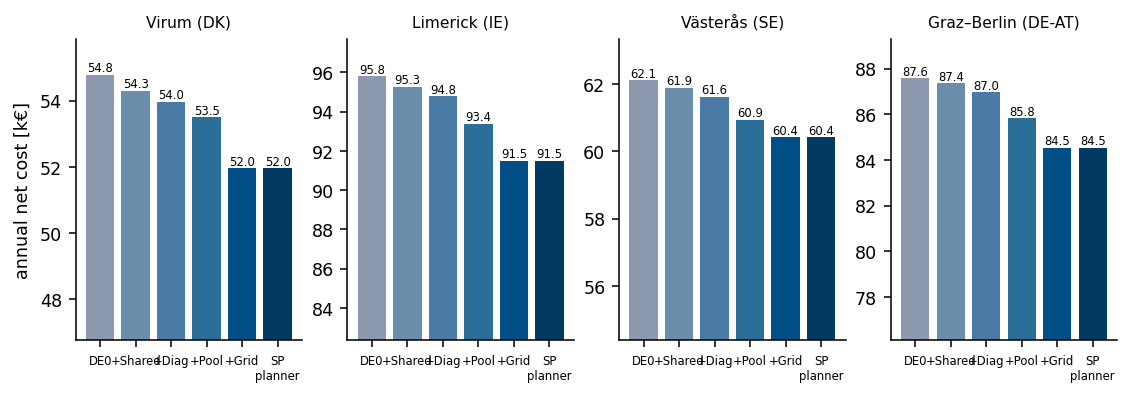
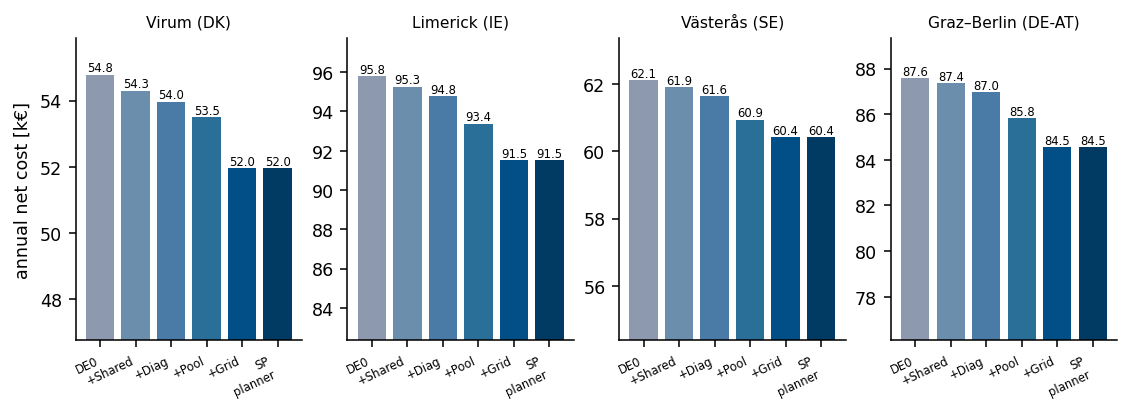
Compute P2P seller premium and buyer saving against effective M3 grid alternatives (net use-of-system tariff and congestion); label regularization-audit price as all-hour solver dual; finish shared-forecast terminology; rotate waterfall x-labels

diff --git a/experiments.py b/experiments.py
@@ -435,10 +435,13 @@ def run_pool_price(pids=None):
         act = vol > 1.0
         wv = w * vol
         tw = lambda x: float(np.sum(wv[act] * x[act]) / np.sum(wv[act])) if act.any() else 0.0
-        eff_imp = d.price_imp + d.tariff
+        # effective M3 grid alternatives: use-of-system tariff on both directions and
+        # congestion price on net export, so both benchmarks move
+        c_imp = d.price_imp + d.tariff - tau
+        r_exp = d.price_exp - d.tariff - tau
         rows.append(dict(pid=pid, pi_tw=tw(pi), n_active_h=float(np.sum(w[act])),
-                         n_active_rep=int(np.sum(act)), seller_prem=tw(pi - d.price_exp),
-                         buyer_save=tw(eff_imp - pi), pi_all_solverdual=float(np.mean(pi))))
+                         n_active_rep=int(np.sum(act)), seller_prem=tw(pi - r_exp),
+                         buyer_save=tw(c_imp - pi), pi_all_solverdual=float(np.mean(pi))))
     _save("pool_price.json", {"rows": rows})
     return rows
 

diff --git a/outputs.py b/outputs.py
@@ -180,7 +180,7 @@ def t_uncertainty():
         ("Coordination gap [k\\euro]", pm("gap_kEUR"), iqr("gap_kEUR")),
         ("Coordination gap [\\% of DE0]", pm("gap_pct"), iqr("gap_pct")),
         ("Planner curtailment [MWh]", pm("curt_SP", 1), iqr("curt_SP", 1)),
-        ("Forecast-informed M1 recovery [\\% of gap]", pm("m1_recovery_pct", 1), iqr("m1_recovery_pct", 1)),
+        ("Shared-forecast recovery [\\% of gap]", pm("m1_recovery_pct", 1), iqr("m1_recovery_pct", 1)),
         ("Curtailment reduction at M3 [\\%]", pm("curt_reduction_pct", 1), iqr("curt_reduction_pct", 1)),
         ("Share: shared forecast (DE0$\\to$M1)", pm("share_info"), iqr("share_info")),
         ("Share: diagnostic residual (M1$\\to$IND)", pm("share_foresight"), iqr("share_foresight")),
@@ -464,7 +464,7 @@ def fig_waterfall(main):
         costs = [v[k]["cost_kEUR"] for k in VARS] + [sp["cost_kEUR"]]
         x = np.arange(len(costs))
         ax.bar(x, costs, color=["#8d99ae", "#6c8ead", "#4a7ba6", "#2a6f97", "#014f86", "#013a63"])
-        ax.set_xticks(x); ax.set_xticklabels(VLAB + ["SP\nplanner"], fontsize=6)
+        ax.set_xticks(x); ax.set_xticklabels(VLAB + ["SP\nplanner"], fontsize=6, rotation=25, ha="right")
         ax.set_title(FIG_NAME[pid], fontsize=8)
         ax.set_ylim(min(costs) * 0.9, max(costs) * 1.02)
         for xi, c in zip(x, costs):

diff --git a/tables/tab_uncertainty.tex b/tables/tab_uncertainty.tex
@@ -7,7 +7,7 @@ Self-sufficiency SSR & 0.524 $\pm$ 0.004 & [0.521, 0.527] \\
 Coordination gap [k\euro] & 2.93 $\pm$ 0.13 & [2.84, 3.03] \\
 Coordination gap [\% of DE0] & 5.45 $\pm$ 0.25 & [5.28, 5.63] \\
 Planner curtailment [MWh] & 160.0 $\pm$ 8.8 & [154.5, 166.6] \\
-Forecast-informed M1 recovery [\% of gap] & 14.9 $\pm$ 1.8 & [13.8, 16.1] \\
+Shared-forecast recovery [\% of gap] & 14.9 $\pm$ 1.8 & [13.8, 16.1] \\
 Curtailment reduction at M3 [\%] & 43.4 $\pm$ 2.3 & [41.8, 44.8] \\
 Share: shared forecast (DE0$\to$M1) & 0.15 $\pm$ 0.02 & [0.14, 0.16] \\
 Share: diagnostic residual (M1$\to$IND) & 0.13 $\pm$ 0.02 & [0.12, 0.14] \\